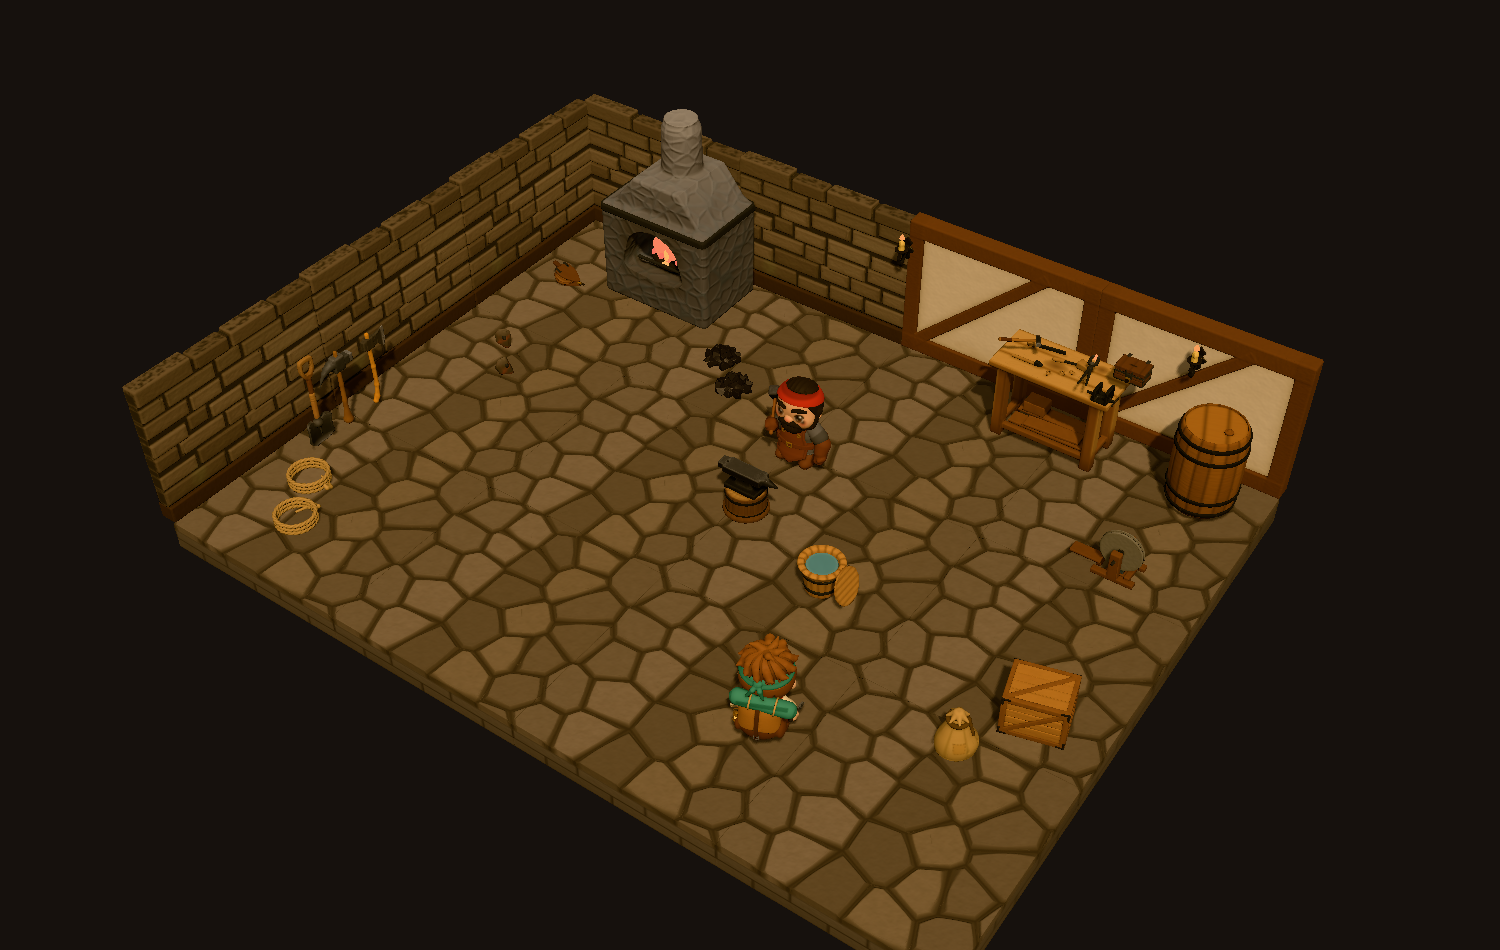
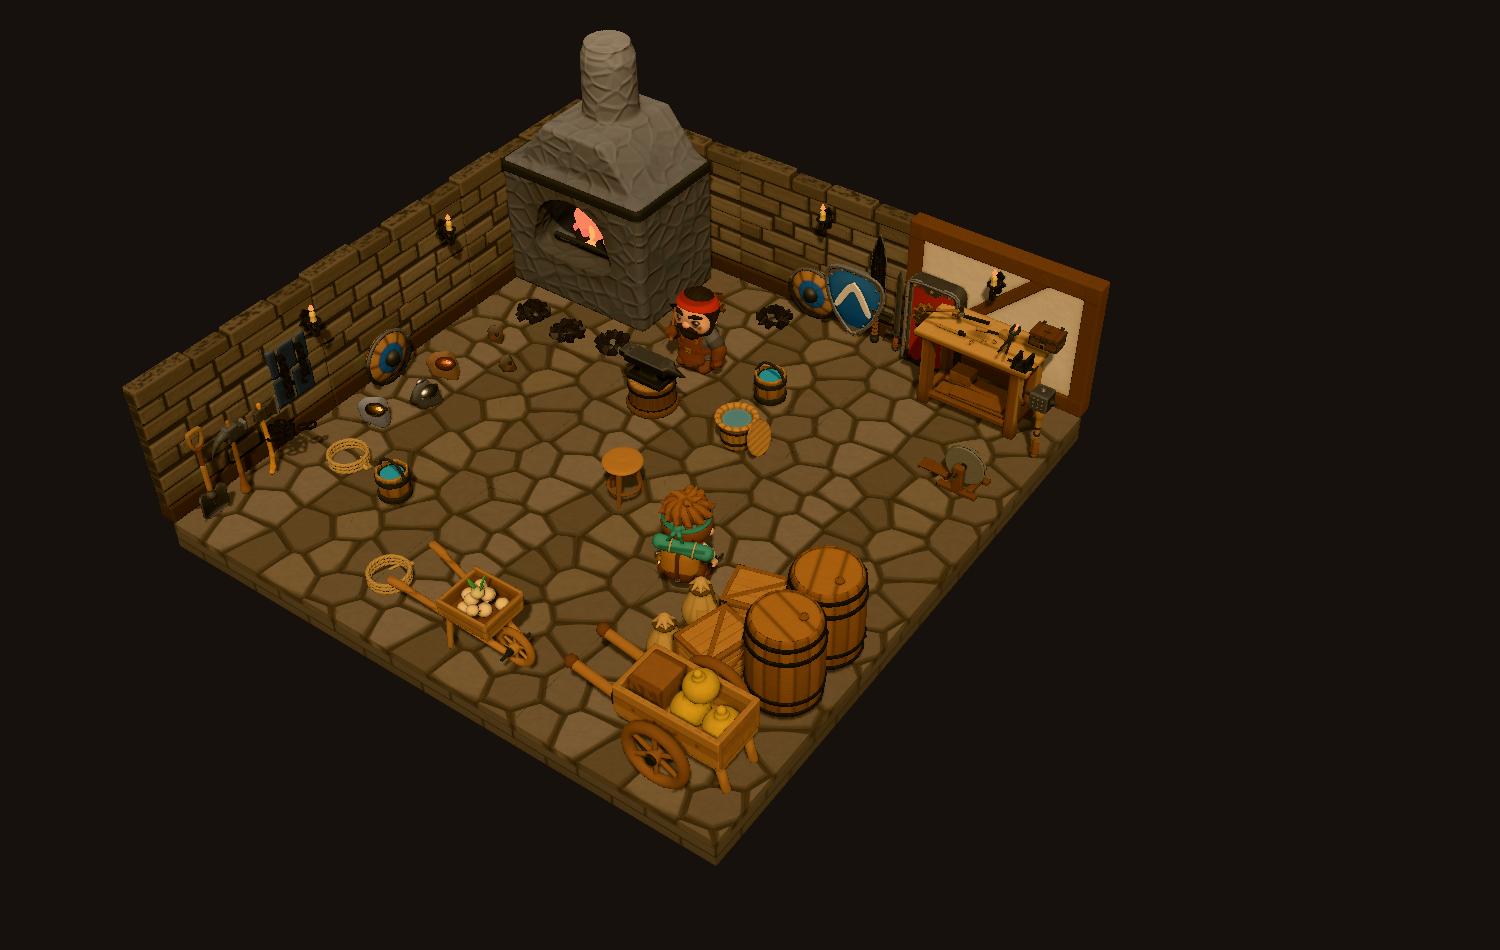
feat(maps): blacksmith shop map at 7.5
A 6 x 6 m shop with the forge (scale 1.35) as the focal mass in the
north-west corner, the anvil, quench tub, coal, and bellows around it,
stock and tools on both walls, and carts and barrels to the south.
64 pieces (was 44). Agent: forge-sonnet-medium, one feedback pass.

Changed region(s): [[0.2453, 0.0305, 0.8893, 1.0], [0.1227, 0.3053, 0.3067, 0.58], [0.276, 0.2137, 0.3067, 0.2747]]

diff --git a/scenes/blacksmith-shop.ts b/scenes/blacksmith-shop.ts
@@ -1,5 +1,5 @@
 /**
- * Chibi Quest blacksmith shop: an 8 m x 6 m interior cutaway matched to
+ * Chibi Quest blacksmith shop: an 6 m x 6 m interior cutaway matched to
  * docs/blacksmith-mockups/blacksmith-quest_001.jpg. Two walls stand (north and west), the roof
  * is off, and the camera looks in from the south-east. Kit rules: docs/blacksmith-mockups/
  * construction.md. Pieces that are still being built are optional slots.
@@ -12,59 +12,80 @@ const BENCH_TOP = 0.99;
 
 export function blacksmithShopPlaces(): Place[] {
   const places: Place[] = [];
-  const put = (asset: string, x: number, z: number, yaw = 0, y = 0, optional = false) => {
+  const put = (asset: string, x: number, z: number, yaw = 0, y = 0, optional = false, scale = 1) => {
     const p: Place = { asset, at: [x, y, z] };
+    if (scale !== 1) p.scale = scale;
     if (yaw !== 0) p.yaw = yaw;
     if (optional) p.optional = true;
     places.push(p);
   };
 
-  // Floor: cobblestone tiles.
-  for (const x of [-3, -1, 1, 3]) for (const z of [-2, 0, 2]) put('stone-floor', x, z); // tile top at y = 0 (a 0.3 m slab)
+  // Floor: 6 m x 6 m of cobblestone tiles (3 x 3 tiles of 2 m).
+  for (const x of [-3, -1, 1]) for (const z of [-2, 0, 2]) put('stone-floor', x, z);
 
-  // North wall: stone behind the forge, half-timber toward the workbench.
+  // North wall: stone behind the forge, half-timber toward the workbench. West wall: stone.
   put('stone-wall', -3, -3.05);
   put('stone-wall', -1, -3.05);
   put('timber-wall', 1, -3.05);
-  put('timber-wall', 3, -3.05);
-  // West wall: stone.
   for (const z of [-2, 0, 2]) put('stone-wall', -4.05, z, 90);
 
-  // The forge anchors the north-west corner; bellows beside it; fuel and ore in front.
-  put('forge', -2.4, -2.45);
-  put('bellows', -3.45, -1.9, 90, 0, true);
-  put('coal', -1.35, -1.75, 20, 0, true);
-  put('coal', -1.0, -1.45, 80, 0, true);
-  put('iron-ore', -3.3, -0.7, 10, 0, true);
-  put('iron-ore', -3.0, -0.35, 60, 0, true);
+  // Work triangle in the north-west: forge, bellows, coal, anvil, quench tub.
+  put('forge', -3.1, -2.2, 0, 0, false, 1.35);
+  put('bellows', -2.0, -2.4, 270, 0, true);
+  put('coal', -3.4, -1.25, 20, 0, true);
+  put('coal', -2.9, -1.2, 80, 0, true);
+  put('coal', -2.4, -1.3, 140, 0, true);
+  put('coal', -1.3, -2.6, 40, 0, true);
+  put('anvil', -1.5, -0.8, 0, 0, false, 1.2);
+  put('blacksmith', -1.5, -1.55);
+  put('quench-tub', -0.5, -0.8, 0, 0, true);
+  put('bucket', -0.6, -1.5, 0, 0, true);
 
-  // Focal mid-floor: the anvil with the smith behind it, the quench tub beside it.
-  put('anvil', 0.1, -0.1);
-  put('blacksmith', 0.1, -0.95);
-  put('quench-tub', 1.2, 0.35, 0, 0, true);
+  // Work wall: bench with tools, cash box, wall sconces; stock leans on the north wall.
+  put('workbench', 1.1, -2.55);
+  put('hammer', 0.7, -2.5, 30, BENCH_TOP, true);
+  put('tongs', 1.4, -2.45, 100, BENCH_TOP, true);
+  put('cash-box', 1.7, -2.6, 0, BENCH_TOP, true);
+  put('wall-sconce', -0.9, -2.95, 0, 1.05, true);
+  put('wall-sconce', 1.0, -2.95, 0, 1.05, true);
+  put('tower-shield', 0.4, -2.8, 0);
+  put('kite-shield', -0.5, -2.85, 0);
+  put('round-shield', -1.0, -2.85, 0);
+  put('long-sword', 0.0, -2.85, 0);
+  put('greatsword', -0.25, -2.85, 0);
+  put('short-sword', 0.55, -2.85, 0);
+  put('warhammer', 1.9, -2.2, 0);
 
-  // Work wall: the bench with tools and the cash box, a wall sconce above.
-  put('workbench', 1.9, -2.55);
-  put('hammer', 1.5, -2.5, 30, BENCH_TOP, true);
-  put('tongs', 2.2, -2.45, 100, BENCH_TOP, true);
-  put('cash-box', 2.55, -2.6, 0, BENCH_TOP, true);
-  put('wall-sconce', 0.0, -2.95, 0, 1.05, true);
-  put('wall-sconce', 3.0, -2.95, 0, 1.05, true);
+  // East edge: grinding wheel, storage.
+  put('grinding-wheel', 1.55, -1.5, 270);
+  put('barrel', 1.6, 0.9, 20);
+  put('barrel', 1.6, 1.5, 70);
+  put('crate', 1.0, 1.0, 15);
+  put('crate', 1.0, 1.6, 75);
+  put('sack', 0.55, 1.2, 40);
+  put('sack', 0.55, 1.7, 100);
+  put('handcart', 1.3, 2.4, 90);
 
-  // East side: grinding wheel, storage, rope.
-  put('grinding-wheel', 3.2, -1.3, 270);
-  put('barrel', 3.4, -2.55, 20);
-  put('crate', 3.4, 0.6, 15);
-  put('sack', 3.0, 1.2, 40);
-  put('rope-coil', -3.4, 1.9, 30);
-  put('rope-coil', -3.1, 2.35, 110);
-
-  // Tools stand along the west wall.
-  put('axe', -3.7, 0.7, 90, 0, true);
-  put('pickaxe', -3.7, 1.1, 90, 0, true);
-  put('shovel', -3.7, 1.45, 90, 0, true);
+  // West wall: ore heaps, rope, tools, finished stock.
+  put('iron-ore', -3.4, -0.7, 10);
+  put('iron-ore', -3.0, -0.4, 60);
+  put('copper-ore', -3.45, 0.0, 30);
+  put('silver-ore', -3.3, 0.45, 80);
+  put('gold-ore', -3.5, 0.9, 20);
+  put('rope-coil', -3.3, 1.5, 30);
+  put('axe', -3.75, 2.0, 90, 0, true);
+  put('pickaxe', -3.75, 2.35, 90, 0, true);
+  put('shovel', -3.75, 2.7, 90, 0, true);
+  put('chains', -3.85, 1.7, 90, 0.4);
+  put('wall-sconce', -3.9, -0.6, 90, 1.05, true);
+  put('wall-sconce', -3.9, 1.2, 90, 1.05, true);
+  put('round-shield', -3.8, 0.4, 90);
+  put('stool', -0.9, 0.4, 20);
+  put('bucket', -2.6, 1.6, 0, 0);
+  put('wheelbarrow', -0.8, 2.5, 90);
+  put('rope-coil', -1.9, 2.4, 110);
 
   // A customer waits for a sword.
-  put('adventurer', 1.7, 1.9, 200);
+  put('adventurer', 0.2, 0.9, 200);
   return places;
 }
